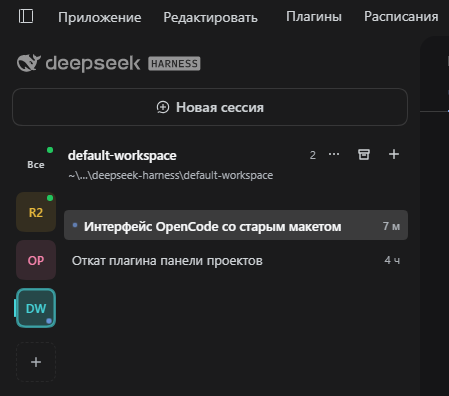
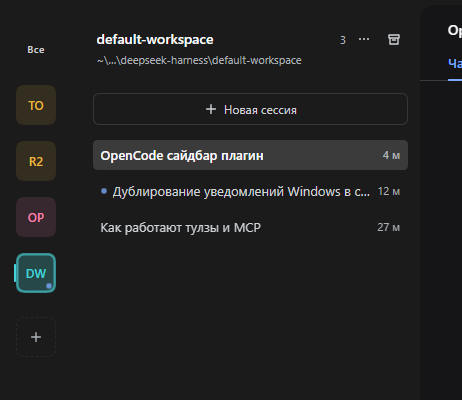
Replace the sidebar screenshot with the current layout
The new capture shows the column without a brand row, the New session bar under
the project header, no duplicate + in that header, and the live ring plus blue
pulse on the open project. Captions in README and DETAIL describe it top to
bottom instead of marking the old shot as an earlier revision.

diff --git a/README.md b/README.md
@@ -9,16 +9,15 @@ caption strip, and an account balance chip.
 this bundle reproduces. It is an independent plugin: it copies a layout, not
 OpenCode's code, and is not affiliated with the OpenCode project.
 
-![The sidebar: panel buttons in the caption strip, project column, project header with its path, and the session list](assets/sidebar-overview.png)
+![The sidebar: project column with live markers, the project header with its path, the New session bar and the session list](assets/sidebar-overview.png)
 
-The screenshot shows an earlier revision: it still has the muted **brand row** and
-the **New session** bar above the column. Since then the brand is removed and that
-bar moved under the project name, into the gap before the session list. What the
-screenshot gets right, top to bottom: the **Plugins** and **Schedules** buttons in
-the window caption strip, the **project column** with live markers (All, then one
-tile per project, then the **+** tile), the project header with its `~` path and
-actions, and the **session list** of the selected project with the open session
-filled in.
+Top to bottom in that screenshot: the **project column** — **All**, then one tile
+per project (the project open in the main view wears a ring and a blue pulse),
+then the **+** tile — the **project header** with the session count, the project
+**…** menu, the archive toggle and the shortened `~` path of the workspace, the
+**New session** bar, and the **session list** of the selected project with the
+open session filled in. The brand row is gone; the window caption strip with the
+**Plugins** and **Schedules** buttons sits above the cropped area.
 
 ## Install
 

diff --git a/docs/DETAIL.md b/docs/DETAIL.md
@@ -20,10 +20,11 @@ sidebar layout inside the DSH Web UI. It ships two halves:
 the panel buttons in the window strip. No OpenCode code is used, and this bundle
 is not affiliated with the OpenCode project.
 
-![The sidebar with the caption-strip panel buttons, project column, project header and session list](../assets/sidebar-overview.png)
+![The sidebar with the project column, the project header, the New session bar and the session list](../assets/sidebar-overview.png)
 
-The screenshot shows an earlier revision with the brand row and the New-session bar
-above the column; both changed since (see **What the sidebar carries**).
+The screenshot shows the current arrangement: no brand row, the **New session** bar
+between the project header and the session list, and no duplicate **+** in the
+header. The caption strip with the panel buttons is above the cropped area.
 
 ## How the region is taken over
 
